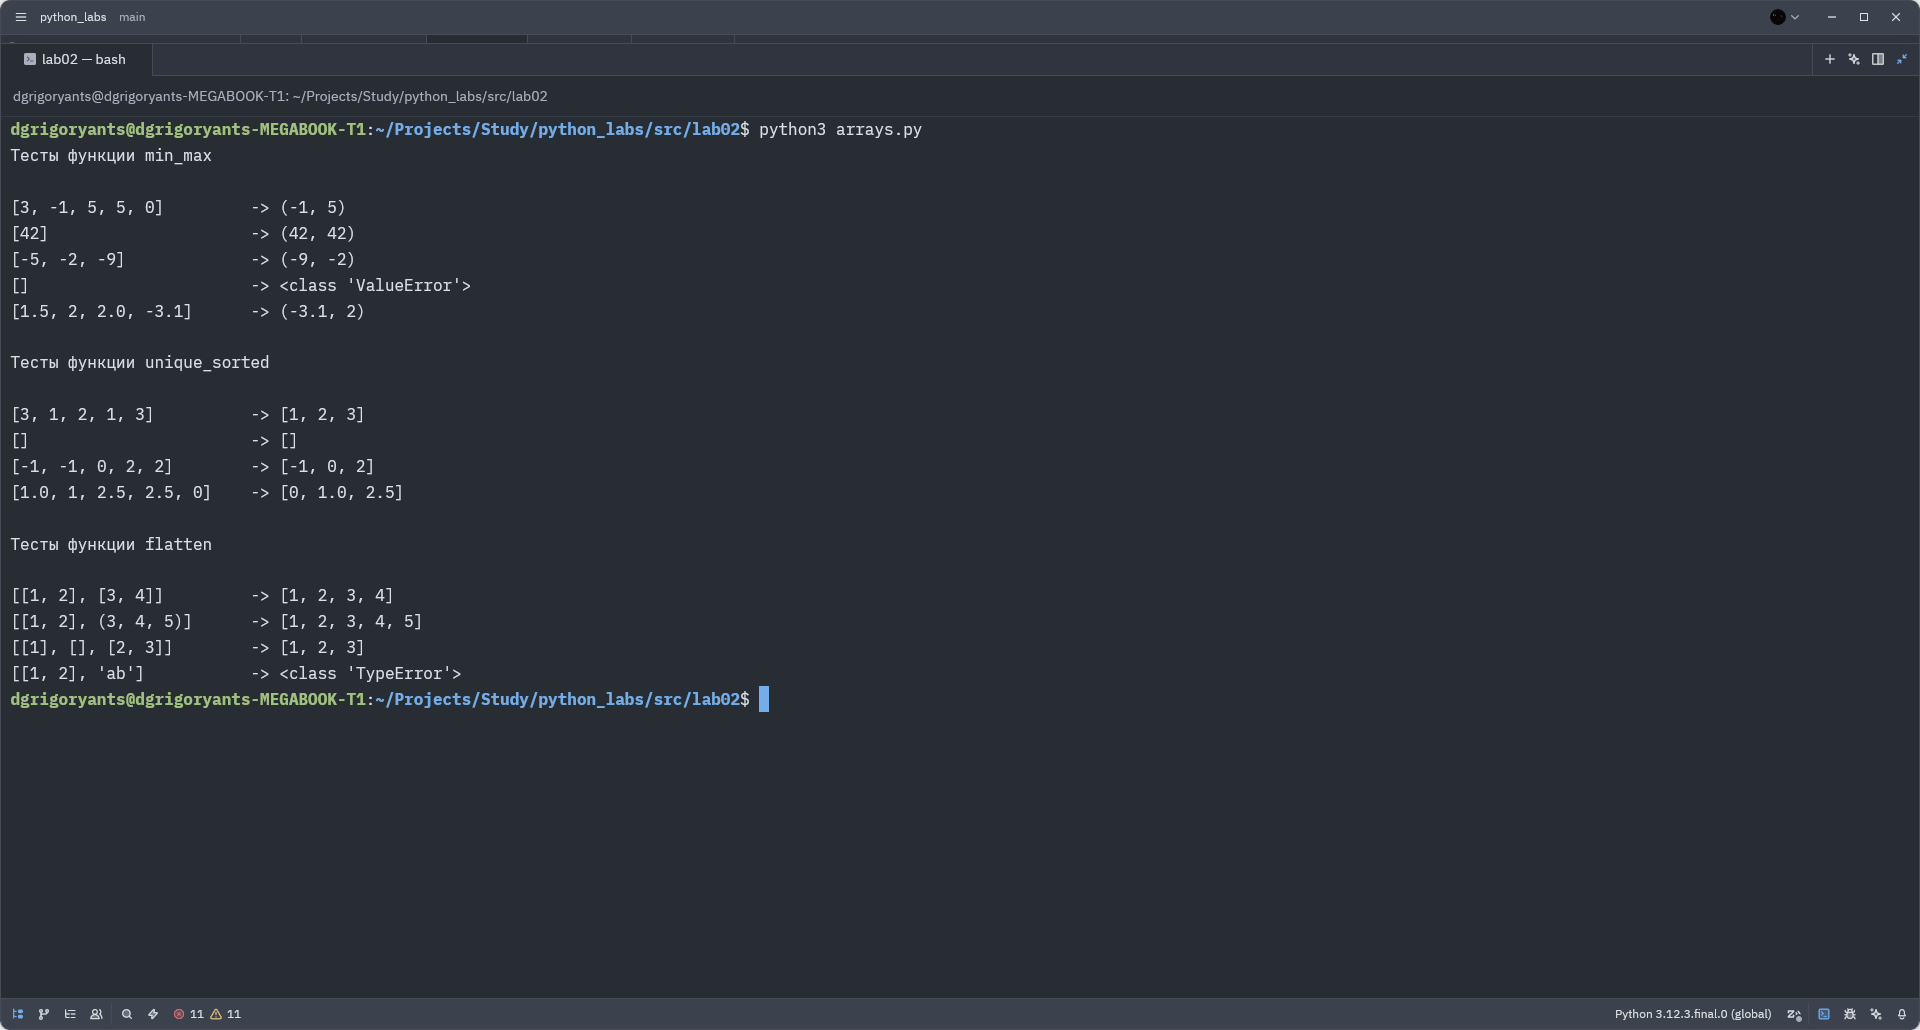
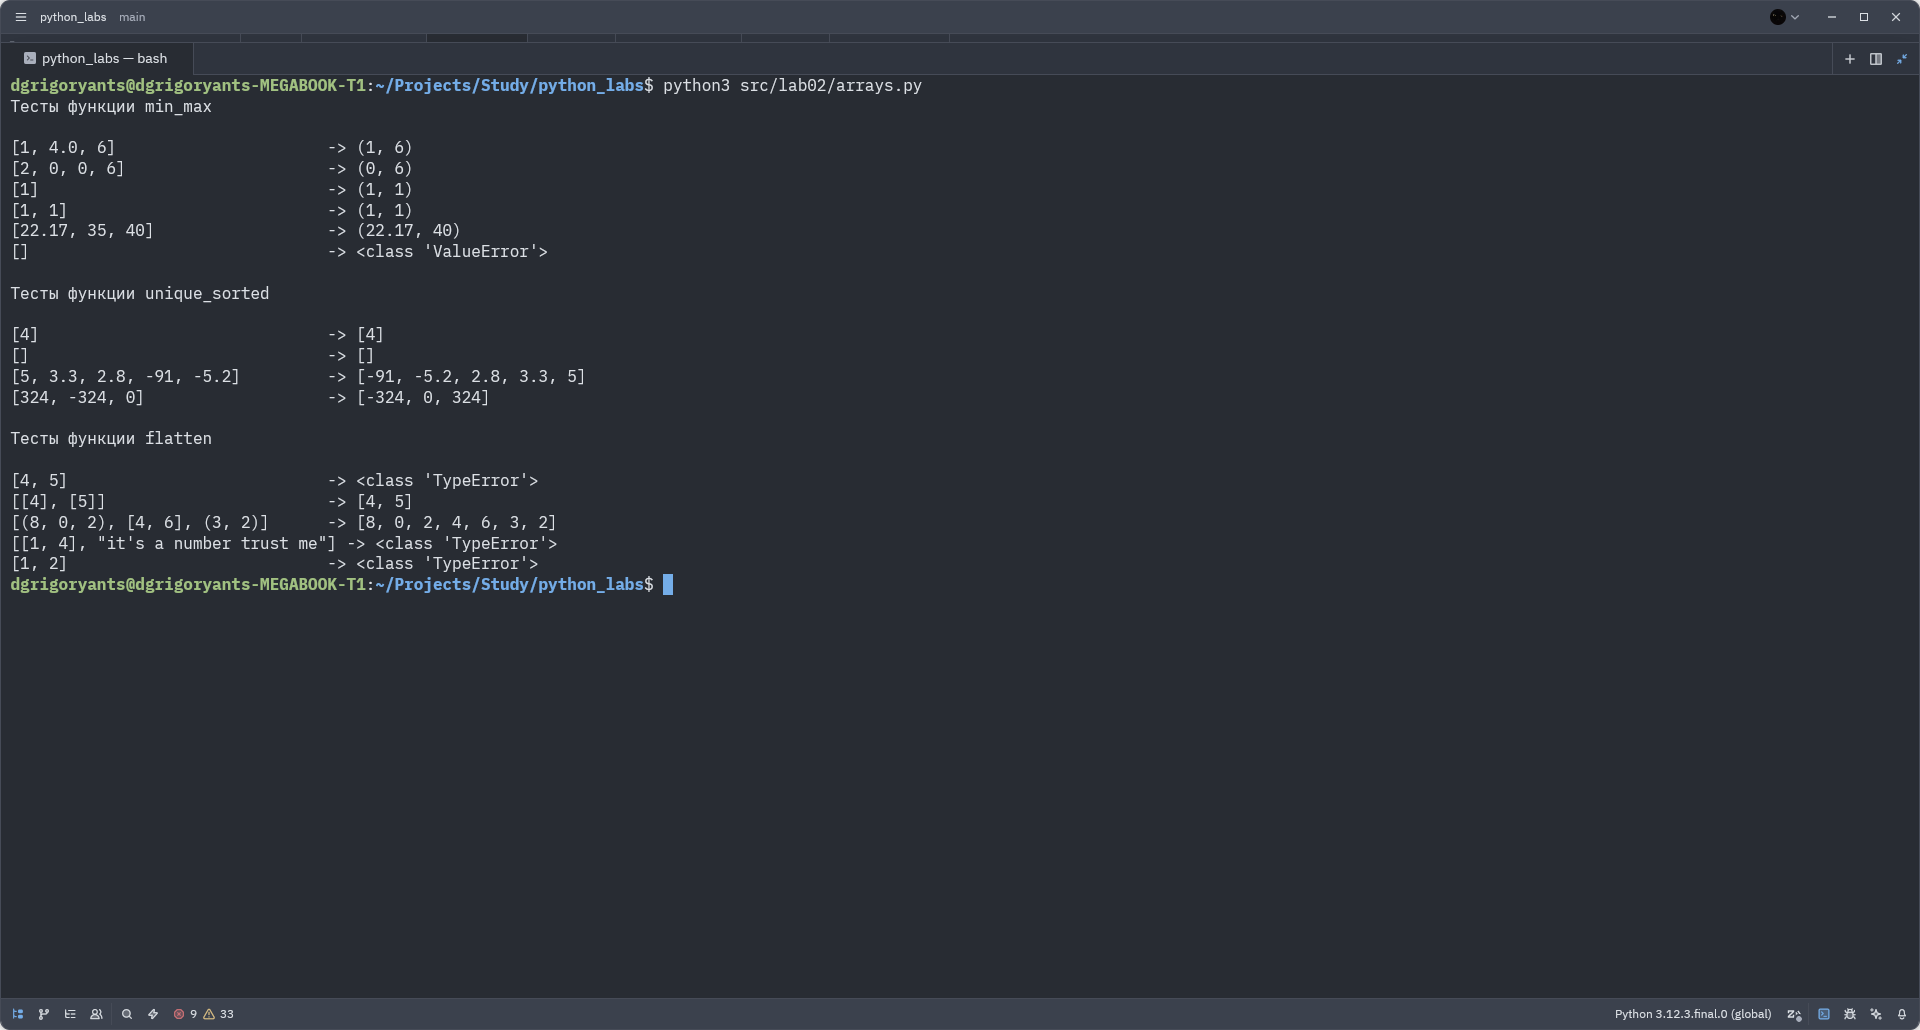
lab-2-6

diff --git a/src/lab02/matrix.py b/src/lab02/matrix.py
@@ -50,20 +50,20 @@ def col_sums(mat: list[list[float | int]]) -> list[float] | type[ValueError]:
 
 
 test_cases = {}
-test_cases["transpose"] = [[[1, 2, 3]], [[1], [2], [3]], [[1, 2], [3, 4]], [], [[1, 2], [3]]]
-test_cases["row_sums"] = [[[1, 2, 3], [4, 5, 6]], [[-1, 1], [10, -10]], [[0, 0], [0, 0]], [[1, 2], [3]]]
-test_cases["col_sums"] = [[[1, 2, 3], [4, 5, 6]], [[-1, 1], [10, -10]], [[0, 0], [0, 0]], [[1, 2], [3]]]
+test_cases["transpose"] = [[[4]], [], [[4, 6], [4.2, 5]], [[9, 0, 1], [1, 4, 5]]]
+test_cases["row_sums"] = [[[1, 2, 3, 4], [2, 4, 6, 8], [3, 6, 9, 12]], [[2, 3, 5], [7, 11, 13], [17, 19, 23]]]
+test_cases["col_sums"] = [[[1, 2, 3, 4], [2, 4, 6, 8], [3, 6, 9, 12]], [[2, 3, 5], [7, 11, 13], [17, 19, 23]]]
 
 print("Тесты функции transpose\n")
 for param in test_cases["transpose"]:
-    print(f"{str(param):<24} -> {transpose(param)}")
+    print(f"{str(param):<48} -> {transpose(param)}")
 print()
 
 print("Тесты функции row_sums\n")
 for param in test_cases["row_sums"]:
-    print(f"{str(param):<24} -> {row_sums(param)}")
+    print(f"{str(param):<48} -> {row_sums(param)}")
 print()
 
 print("Тесты функции col_sums\n")
 for param in test_cases["col_sums"]:
-    print(f"{str(param):<24} -> {col_sums(param)}")
+    print(f"{str(param):<48} -> {col_sums(param)}")

diff --git a/src/lab02/arrays.py b/src/lab02/arrays.py
@@ -24,20 +24,20 @@ def flatten(mat: list[list | tuple]) -> list | type[TypeError]:
 
 
 test_cases = {}
-test_cases["min_max"] = [[3, -1, 5, 5, 0], [42], [-5, -2, -9], [], [1.5, 2, 2.0, -3.1]]
-test_cases["unique_sorted"] = [[3, 1, 2, 1, 3], [], [-1, -1, 0, 2, 2], [1.0, 1, 2.5, 2.5, 0]]
-test_cases["flatten"] = [[[1, 2], [3, 4]], [[1, 2], (3, 4, 5)], [[1], [], [2, 3]], [[1, 2], "ab"]]
+test_cases["min_max"] = [[1, 4.0, 6], [2, 0, 0, 6], [1], [1, 1], [22.17, 35, 40], []]
+test_cases["unique_sorted"] = [[4], [], [5, 3.3, 2.8, -91, -5.2], [324, -324, 0]]
+test_cases["flatten"] = [[4, 5], [[4], [5]], [(8, 0, 2), [4, 6], (3, 2)], [[1, 4], "it's a number trust me"], [(1), 2]]
 
 print("Тесты функции min_max\n")
 for param in test_cases["min_max"]:
-    print(f"{str(param):<24} -> {min_max(param)}")
+    print(f"{str(param):<32} -> {min_max(param)}")
 print()
 
 print("Тесты функции unique_sorted\n")
 for param in test_cases["unique_sorted"]:
-    print(f"{str(param):<24} -> {unique_sorted(param)}")
+    print(f"{str(param):<32} -> {unique_sorted(param)}")
 print()
 
 print("Тесты функции flatten\n")
 for param in test_cases["flatten"]:
-    print(f"{str(param):<24} -> {flatten(param)}")
+    print(f"{str(param):<32} -> {flatten(param)}")

diff --git a/src/lab02/tuples.py b/src/lab02/tuples.py
@@ -32,8 +32,8 @@ def format_record(rec: tuple[str, str, float]) -> str | type[ValueError] | type[
     return f"{return_name}, {return_group}, {return_gpa:.2f}"
 
 test_cases = {}
-test_cases["format_record"] = [("Иванов Иван Иванович", "BIVT-25", 4.6), ("Петров Пётр", "IKBO-12", 5.0), ("Петров Пётр Петрович", "IKBO-12", 5.0),
-    ("  сидорова  анна   сергеевна ", "ABB-01", 3.999), ("Пупупушкин", "PK-00", 2.0), ("Михайлов Стас", "", 6.0), ("Колесников Денис", "LI-2", "5.0")]
+test_cases["format_record"] = [("Григорьев Денис Данилович", "BIVT-25-1", 5.0), ("Горький Владимир", "IKN-BIVT-0", 3.333), ("Сидоров Сидор Сидорович", "GN-5", 4.1),
+    ("  щербакова  анна   станиславовна ", "FK-01", 6.0), ("Пупупушкин", "PK-00", 2.0), ("Михайлов Стас", "", 6.0), ("Колесников Денис", "LI-2", "5.0")]
 
 print("Тесты функции format_record\n")
 for param in test_cases["format_record"]:
